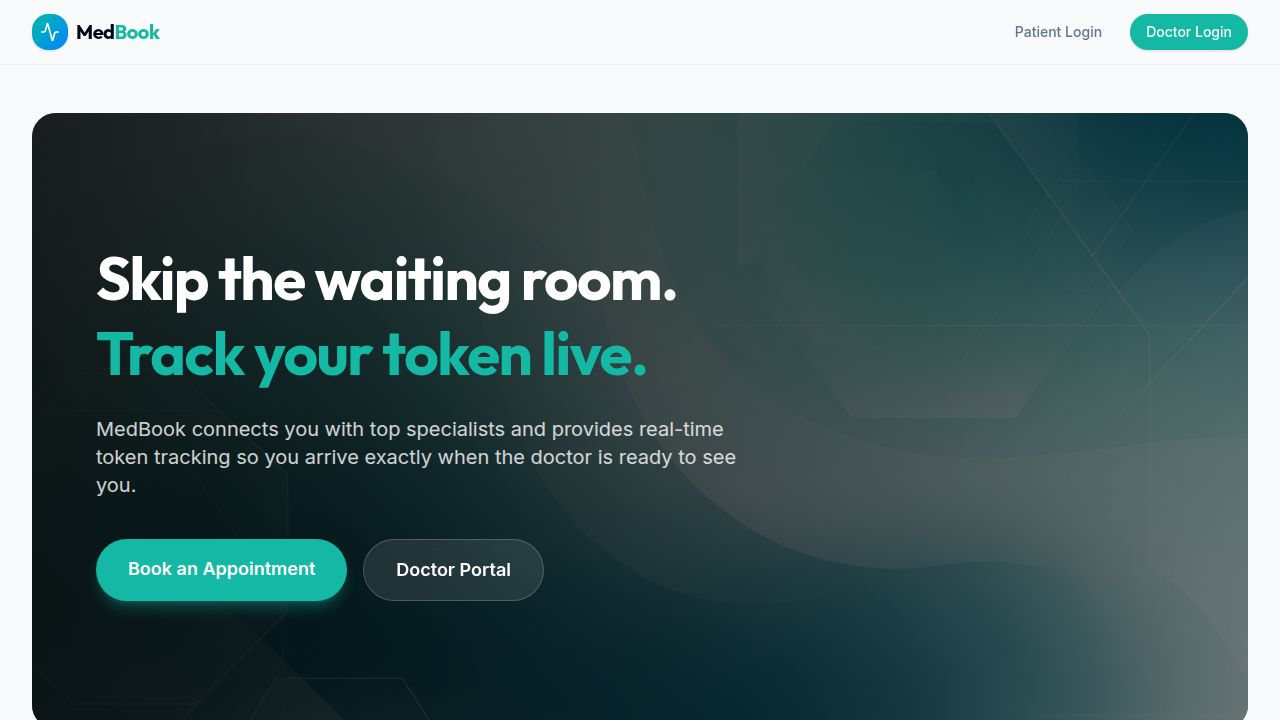
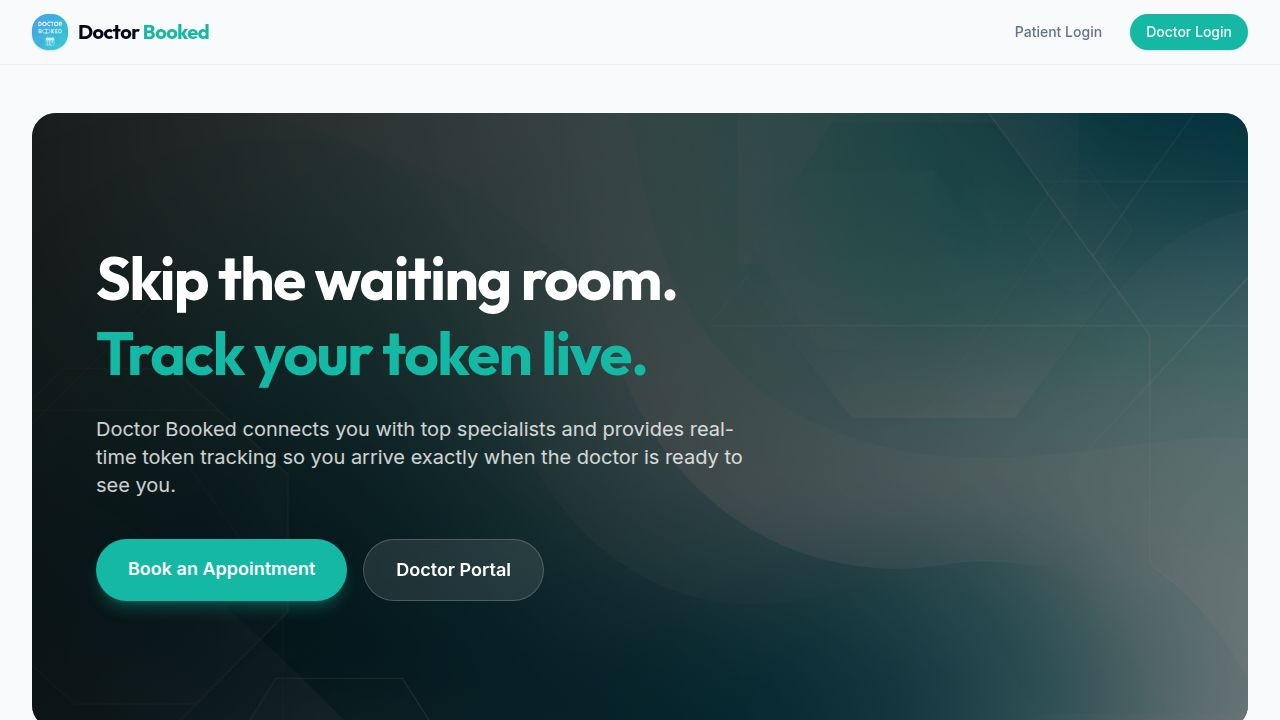
Update website branding and improve patient booking experience
Update website name to "Doctor Booked", replace logo, and improve patient session display by adding polling.

Replit-Commit-Author: Agent
Replit-Commit-Session-Id: 3b019667-f9a7-450a-82c8-f6cbc832537a
Replit-Commit-Checkpoint-Type: full_checkpoint
Replit-Commit-Event-Id: fe166d3a-5c26-42b9-b277-630cd14f9ae3
Replit-Commit-Screenshot-Url: https://storage.googleapis.com/screenshot-production-us-central1/b6da8fc3-3c8d-4a25-8064-02d845dae3ea/3b019667-f9a7-450a-82c8-f6cbc832537a/kOu1pJm
Replit-Helium-Checkpoint-Created: true

Changed region(s): [[0.0625, 0.5806, 0.5938, 0.7028], [0.0, 0.0, 0.1875, 0.0917]]

diff --git a/artifacts/medbook/src/components/layout.tsx b/artifacts/medbook/src/components/layout.tsx
@@ -1,23 +1,26 @@
 import { ReactNode } from "react";
 import { Link, useLocation } from "wouter";
 import { useAuth } from "@/hooks/use-auth";
-import { LogOut, User, Activity, CalendarDays, LayoutDashboard } from "lucide-react";
+import { LogOut, User } from "lucide-react";
+import logoImg from "@assets/Final_logo_page-0001_1773317875013.jpg";
 
 export function Layout({ children }: { children: ReactNode }) {
   const { user, role, logout } = useAuth();
-  const [, setLocation] = useLocation();
+  const [,] = useLocation();
 
   return (
     <div className="min-h-screen flex flex-col bg-background">
       <header className="sticky top-0 z-50 w-full border-b border-border/40 bg-background/95 backdrop-blur supports-[backdrop-filter]:bg-background/60">
         <div className="max-w-7xl mx-auto px-4 sm:px-6 lg:px-8">
           <div className="flex h-16 items-center justify-between">
-            <Link href={role === 'doctor' ? "/doctor/dashboard" : "/patient/hospitals"} className="flex items-center gap-2 transition-transform hover:scale-105">
-              <div className="bg-gradient-to-br from-primary to-secondary p-2 rounded-xl text-white shadow-sm">
-                <Activity className="h-5 w-5" />
-              </div>
+            <Link href={role === 'doctor' ? "/doctor/dashboard" : "/patient/hospitals"} className="flex items-center gap-2.5 transition-transform hover:scale-105">
+              <img
+                src={logoImg}
+                alt="Doctor Booked Logo"
+                className="h-9 w-9 rounded-xl object-cover shadow-sm"
+              />
               <span className="font-display font-bold text-xl tracking-tight text-foreground">
-                Med<span className="text-primary">Book</span>
+                Doctor <span className="text-primary">Booked</span>
               </span>
             </Link>
 
@@ -38,7 +41,7 @@ export function Layout({ children }: { children: ReactNode }) {
                       </>
                     )}
                   </div>
-                  
+
                   <div className="flex items-center gap-3 pl-4 border-l border-border/50">
                     <div className="hidden sm:flex flex-col items-end">
                       <span className="text-sm font-semibold leading-none">{user.name}</span>
@@ -47,7 +50,7 @@ export function Layout({ children }: { children: ReactNode }) {
                     <div className="h-9 w-9 rounded-full bg-primary/10 flex items-center justify-center text-primary">
                       <User className="h-5 w-5" />
                     </div>
-                    <button 
+                    <button
                       onClick={() => logout()}
                       className="p-2 text-muted-foreground hover:text-destructive transition-colors rounded-full hover:bg-destructive/10"
                       title="Logout"
@@ -76,7 +79,7 @@ export function Layout({ children }: { children: ReactNode }) {
       </main>
 
       <footer className="py-6 text-center text-sm text-muted-foreground border-t border-border mt-auto">
-        <p>© {new Date().getFullYear()} MedBook App. Premium Healthcare Access.</p>
+        <p>© {new Date().getFullYear()} Doctor Booked. Premium Healthcare Access.</p>
       </footer>
     </div>
   );

diff --git a/artifacts/medbook/src/pages/landing.tsx b/artifacts/medbook/src/pages/landing.tsx
@@ -27,7 +27,7 @@ export default function Landing() {
               <span className="text-primary">Track your token live.</span>
             </h1>
             <p className="text-lg md:text-xl text-white/80 mb-10 max-w-2xl">
-              MedBook connects you with top specialists and provides real-time token tracking so you arrive exactly when the doctor is ready to see you.
+              Doctor Booked connects you with top specialists and provides real-time token tracking so you arrive exactly when the doctor is ready to see you.
             </p>
             
             <div className="flex flex-col sm:flex-row gap-4">

diff --git a/artifacts/medbook/index.html b/artifacts/medbook/index.html
@@ -3,7 +3,7 @@
   <head>
     <meta charset="UTF-8" />
     <meta name="viewport" content="width=device-width, initial-scale=1.0, maximum-scale=1" />
-    <title>MedBook - Doctor Appointment Booking</title>
+    <title>Doctor Booked - Appointment Booking</title>
     <link rel="preconnect" href="https://fonts.googleapis.com">
     <link rel="preconnect" href="https://fonts.gstatic.com" crossorigin>
     <link href="https://fonts.googleapis.com/css2?family=Inter:wght@400;500;600;700&display=swap" rel="stylesheet">

diff --git a/artifacts/medbook/src/pages/patient/login.tsx b/artifacts/medbook/src/pages/patient/login.tsx
@@ -24,7 +24,7 @@ export default function PatientLogin() {
     }, {
       onSuccess: (data) => {
         login(data.token, 'patient');
-        toast({ title: "Welcome to MedBook", description: "Successfully logged in." });
+        toast({ title: "Welcome to Doctor Booked", description: "Successfully logged in." });
         setLocation("/patient/hospitals");
       },
       onError: () => {

diff --git a/artifacts/medbook/src/pages/patient/book.tsx b/artifacts/medbook/src/pages/patient/book.tsx
@@ -18,7 +18,7 @@ export default function BookDoctor() {
 
   // Fetch sessions for this doctor
   const { data: sessions, isLoading } = useGetDoctorSessions(doctorId, {
-    query: { enabled: !!doctorId }
+    query: { enabled: !!doctorId, refetchInterval: 10000 }
   });
 
   const [selectedSessionId, setSelectedSessionId] = useState<number | null>(null);
